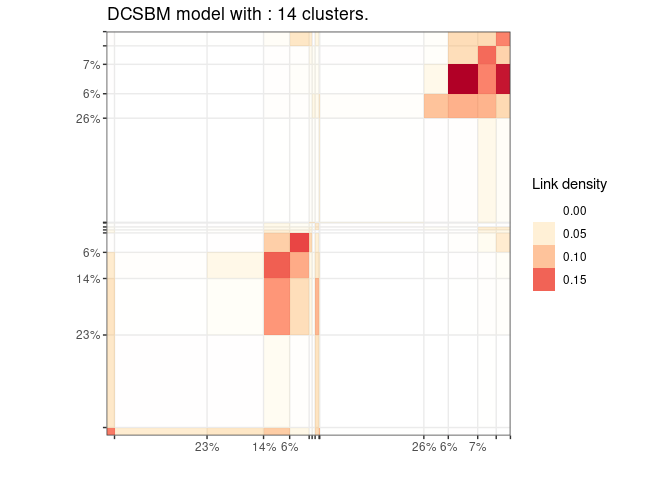
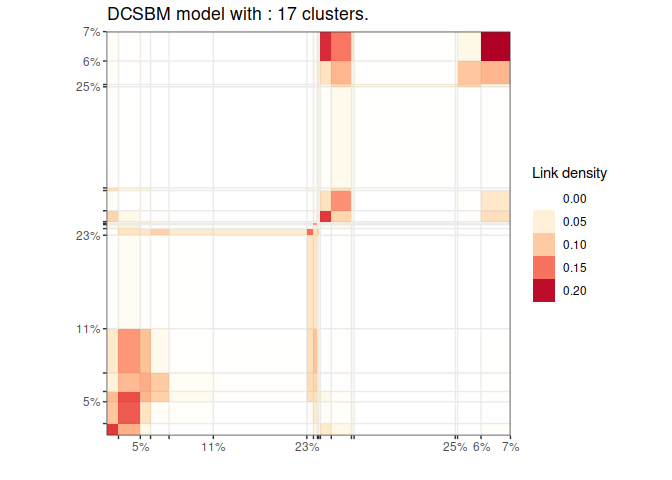
Re-run README.Rmd to generate an up-to-date markdown

diff --git a/README.md b/README.md
@@ -7,12 +7,14 @@
 
 [![R build
 status](https://github.com/comeetie/greed/workflows/R-CMD-check/badge.svg)](https://github.com/comeetie/greed/actions)
-<!-- badges: end --> Greed enable model based clustering of networks,
-counts data matrix and much more with different type of generative
-models. Model selection and clustering is performed in combination by
-optimizing the Integrated Classification Likelihood. Details on the
-algorithms and methods proposed by this package can be found in this
-[arxiv 2002.11577v1](https://arxiv.org/abs/2002.11577v1) pre-print.
+<!-- badges: end -->
+
+Greed enables model based clustering of networks, matrices of count data
+and much more with different types of generative models. Model selection
+and clustering is performed in combination by optimizing the Integrated
+Classification Likelihood. Details of the algorithms and methods
+proposed by this package can be found in this
+[arxiv 2002.11577](https://arxiv.org/abs/2002.11577) pre-print.
 
 The following generative models are available currently :
 
@@ -29,19 +31,18 @@ The following generative models are available currently :
   - Multivariate Mixture of Gaussian Regression Model (**experimental**,
     see `` ?`mvmreg-class` ``).
 
-With the Integrated Classification Likelihood the parameters of the
-models are integrated out and therefore introduces a natural
-regularization for complex models. Since the Integrated Classification
-Likelihood penalize complex models it enable to automatically find a
-“natural” value for the number of cluster \(K^*\), the user needs only
-to provide an initial guess and value for the prior parameters (sensible
-default values are used if no prior information is available). The
-optimization is performed by default thanks to a combination of greedy
-local search and a genetic algorithm, several optimization algorithms
-are available.
+With the Integrated Classification Likelihood, the parameters of the
+models are integrated out. This allows a natural regularization for
+complex models. Since the Integrated Classification Likelihood penalizes
+complex models it allows to automatically find a “natural” value for the
+number of clusters \(K^*\), the user only needs to provide an initial
+guess as well as values for the prior parameters (sensible default
+values are used if no prior information is available). The optimization
+is performed by default thanks to a combination of a greedy local search
+and a genetic algorithm. Several optimization algorithms are available.
 
 Eventually, the whole path of solutions from \(K^*\) to 1 cluster is
-extracted. This enable a partial ordering of the clusters, and the
+extracted. This enables a partial ordering of the clusters, and the
 evaluation of simpler clustering. The package also provides some
 plotting functionality.
 
@@ -60,7 +61,7 @@ devtools::install_github("comeetie/greed")
 The main entry point for using the package is simply the greed function
 (`?greed`). The generative model will be chosen automatically to fit
 with the data provided, but you may specify another choice with the
-model parameter. This is a basic example with the classical blogs
+model parameter. This is a basic example with the classical Jazz
 network:
 
 ``` r
@@ -68,13 +69,13 @@ library(greed)
 data(Jazz)
 sol=greed(Jazz)
 #> ------- undirected DCSBM model fitting ------
-#> ################# Generation  1: best solution with an ICL of -28641 and 17 clusters #################
-#> ################# Generation  2: best solution with an ICL of -28607 and 15 clusters #################
-#> ################# Generation  3: best solution with an ICL of -28593 and 17 clusters #################
-#> ################# Generation  4: best solution with an ICL of -28583 and 16 clusters #################
-#> ################# Generation  5: best solution with an ICL of -28583 and 16 clusters #################
+#> ################# Generation  1: best solution with an ICL of -28617 and 15 clusters #################
+#> ################# Generation  2: best solution with an ICL of -28596 and 16 clusters #################
+#> ################# Generation  3: best solution with an ICL of -28589 and 13 clusters #################
+#> ################# Generation  4: best solution with an ICL of -28569 and 14 clusters #################
+#> ################# Generation  5: best solution with an ICL of -28569 and 14 clusters #################
 #> ------- Final clustering -------
-#> ICL clustering with a DCSBM model, 14 clusters and an icl of -28556.
+#> ICL clustering with a DCSBM model, 13 clusters and an icl of -28551.
 ```
 
 Here Jazz is a square sparse matrix and a `` ?`dcsbm-class` `` model
@@ -104,10 +105,10 @@ plot(cut(sol,5))
 
 <img src="man/figures/cut-1.png" width="60%" />
 
-For large datasets, it’s possible to use parallelism to speed-up the
+For large datasets, it is possible to use parallelism to speed-up the
 computation thanks to the
 [future](https://github.com/HenrikBengtsson/future) package. You only
-need to specify the type of backend you ant to use.
+need to specify the type of backend you want to use.
 
 ``` r
 library(future)
@@ -115,16 +116,18 @@ plan(multisession)
 data("Blogs")
 sol=greed(Blogs$X)
 #> ------- directed DCSBM model fitting ------
-#> ################# Generation  1: best solution with an ICL of -84433 and 17 clusters #################
-#> ################# Generation  2: best solution with an ICL of -84352 and 18 clusters #################
-#> ################# Generation  3: best solution with an ICL of -84250 and 17 clusters #################
-#> ################# Generation  4: best solution with an ICL of -84202 and 17 clusters #################
-#> ################# Generation  5: best solution with an ICL of -84196 and 15 clusters #################
-#> ################# Generation  6: best solution with an ICL of -84167 and 15 clusters #################
-#> ################# Generation  7: best solution with an ICL of -84152 and 15 clusters #################
-#> ################# Generation  8: best solution with an ICL of -84152 and 15 clusters #################
+#> ################# Generation  1: best solution with an ICL of -84559 and 18 clusters #################
+#> ################# Generation  2: best solution with an ICL of -84368 and 17 clusters #################
+#> ################# Generation  3: best solution with an ICL of -84286 and 20 clusters #################
+#> ################# Generation  4: best solution with an ICL of -84214 and 18 clusters #################
+#> ################# Generation  5: best solution with an ICL of -84184 and 18 clusters #################
+#> ################# Generation  6: best solution with an ICL of -84166 and 17 clusters #################
+#> ################# Generation  7: best solution with an ICL of -84164 and 17 clusters #################
+#> ################# Generation  8: best solution with an ICL of -84154 and 17 clusters #################
+#> ################# Generation  9: best solution with an ICL of -84151 and 17 clusters #################
+#> ################# Generation 10: best solution with an ICL of -84149 and 18 clusters #################
 #> ------- Final clustering -------
-#> ICL clustering with a DCSBM model, 14 clusters and an icl of -84133.
+#> ICL clustering with a DCSBM model, 17 clusters and an icl of -84106.
 plot(sol)
 ```
 
